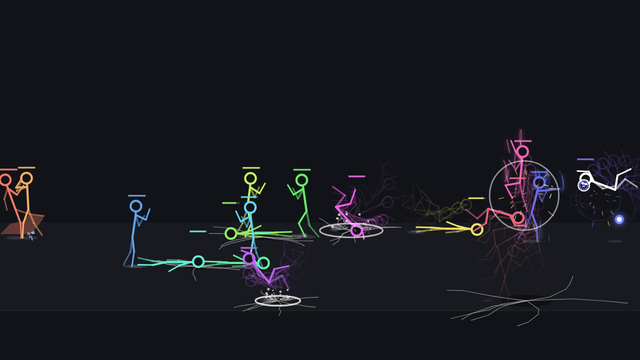
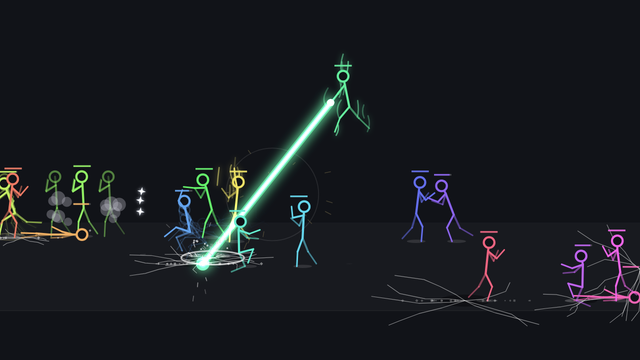
feat: clashes, parries and counters (#490)
* feat: clashes, parries and counters

* fix: re-record the pictures after clashes and counters

The fight a seed gives changed, so demo.gif is recorded again from seed 39,
whose scan still shows all eight styles (and two parries with counters),
and all twenty pictures in docs/images/. The click in click-blast moves to
920, 410, where the fighters now are half a second in.

---------

Changed region(s): [[0.0, 0.1528, 1.0, 0.8861], [0.8125, 0.8861, 0.8438, 0.9167]]

diff --git a/wallpaper/main.js b/wallpaper/main.js
@@ -522,7 +522,7 @@ function slowmoView(ox, oy) {
   view = { z, x: ox * z + cx * (1 - z), y: oy * z + cy * (1 - z) };
   ctx.setTransform(dpr * S * z, 0, 0, dpr * S * z, view.x * dpr, view.y * dpr);
 }
-const stats = { att: {}, hits: {}, whiff: 0, blocked: 0, shielded: 0, subs: 0, ko: 0, rounds: 0, throws: 0, launches: 0, combos: 0, splats: 0, sfx: {} };
+const stats = { att: {}, hits: {}, whiff: 0, blocked: 0, shielded: 0, subs: 0, ko: 0, rounds: 0, throws: 0, launches: 0, combos: 0, splats: 0, clashes: 0, parries: 0, counters: 0, sfx: {} };
 window.__stickmanBrawl = { stats, cfg, MOVES, SUPER, MAGIC, NINJA, shots, fx, sfx, soundSetVolume, soundSetPaused, checkRound, update, pickMove, pickTarget,
   render: () => render(),
   get fighters() { return fighters; } };
@@ -613,6 +613,27 @@ function impact(x, y, big) {
   hitStop(big ? 0.09 : 0.035);
   if (big) addFx({ type: 'focus', x, y, dur: 0.28 });
 }
+// Two strikes meeting in mid-air at Ha and Hb: neither lands, both fighters are knocked back
+// off balance, and the meeting point bursts in white
+function clash(a, b, Ha, Hb) {
+  const M = mid(Ha, Hb);
+  for (const f of [a, b]) {
+    f.hitDone = true; f.chain = null; f.combo = 0; f.clearMove();
+    f.state = 'hit'; f.st = 0; f.dur = CLASH_STAGGER; f.vx = -f.facing * 220; f.dash = 0;
+    if (!f.aloft()) dust(f.x, groundY(f.z) - f.alt, 3, -f.facing, 0.8);
+  }
+  addFx({ type: 'ring', x: M.x, y: M.y, r0: 4, r1: 46, dur: 0.3, w: 3 });
+  spawnSparks(M.x, M.y, '#ffffff', 16, false, 1.4);
+  sfx('hitBig', M.x, 0.8);
+  shake = Math.max(shake, 6); hitStop(0.08);
+  stats.clashes++;
+}
+// Clashes and parries: two strikes that meet knock both fighters back for CLASH_STAGGER s; a
+// block parries PARRY_CHANCE of the martial-arts strikes it meets, which leaves the attacker
+// off balance for PARRY_STAGGER s while the blocker strikes back. Strikes meet when an enemy
+// warned of one answers it with its own (warn, MEET_CHANCE)
+const CLASH_DIST = 16, CLASH_STAGGER = 0.3, PARRY_CHANCE = 0.35, PARRY_STAGGER = 0.4;
+const MEET_CHANCE = 0.25;   // Share of martial-arts strikes an enemy warned of meets with a strike of its own (warn)
 // A cloud of smoke: a few grey balls that swell and fade
 function puff(x, y, size) {
   const balls = [];
@@ -1569,6 +1590,14 @@ class Fighter {
           + (this.move.type === 'clones' ? CLONES_RUSH : 0);
       } else if (!grab && r >= 0.55 && r < 0.63 && cfg.styles.ninjutsu) {
         e.subFrom = this; e.subT = (this.move.wind || 0.3) + (this.move.act || 0.4) + 0.3 + fly;
+      } else if (guard && !this.move.type && r >= 0.63 && r < 0.63 + MEET_CHANCE) {
+        // Meets the strike with one of its own, thrown with the same kind of limb (fist, foot,
+        // elbow or knee) so the two can clash: a strike of a style that is on, quick enough
+        // to be out as soon as the other, reaching across the gap the two lunges close
+        const d = Math.abs(e.x - this.x), kind = this.move.hit[0];
+        const fits = MOVES.filter(n => cfg.styles[n.style] && !n.grab && n.hit[0] === kind && n.wind <= this.move.wind + 0.02 &&
+          d <= n.range[1] + 20);
+        if (fits.length) { e.facing = sgn(this.x - e.x); e.target = this; e.startMove(withStaff(e, pick(fits)), true); }
       }
     }
   }
@@ -2334,6 +2363,8 @@ class Fighter {
     const H = m.staff ? staffTip(this.W, m.hit) : this.W[m.hit], P0 = this.prevHP || H;
     this.prevHP = { x: H.x, y: H.y };
     const r = this.sweepHit(P0, H);
+    const c = this.clashWith(P0, H, r && r[0]);
+    if (c) { clash(this, c[0], H, c[1]); return; }
     if (r) {
       this.hitDone = true;
       const e = r[0];
@@ -2342,6 +2373,43 @@ class Fighter {
       // Only a target still reeling on its feet can be caught by the next strike
       if (e.state === 'hit' && this.combo < COMBO_MAX && COMBO_NEXT[(m.bare || m).id] && !this.aloft() && Math.random() < COMBO_CHANCE) this.chain = e;
     }
+  }
+
+  // An enemy striking back at this one whose fist or foot (or staff tip) is within CLASH_DIST
+  // of this strike's point as it moved from P0 to H, or struck, the enemy it is landing on, as
+  // [enemy, its point]: the two strikes meet
+  clashWith(P0, H, struck) {
+    for (const e of fighters) {
+      const n = e.move;
+      if (!isEnemy(this, e) || e.state !== 'attack' || !n || n.type || n.grab || e.hitDone || !e.W) continue;
+      if (e.st < n.wind || e.st > n.wind + n.act * 0.85 || e.facing !== -this.facing) continue;
+      if (Math.abs(e.z - this.z) > 16 || Math.abs(e.alt - this.alt) >= 35) continue;
+      // Measured against this step's sweep of the point, P0 to H: fists closing at speed pass
+      // each other between two steps
+      const E = n.staff ? staffTip(e.W, n.hit) : e.W[n.hit];
+      // or the enemy this strike is about to land on strikes back with the same kind of limb
+      if (segDist(E.x, E.y, P0, H) < CLASH_DIST || (e === struck && n.hit[0] === this.move.hit[0])) return [e, E];
+    }
+    return null;
+  }
+
+  // A block made in time turns att's strike aside at H: no damage, the attacker thrown off
+  // balance, and this fighter strikes straight back with a martial-arts strike that reaches it
+  parry(att, H) {
+    stats.parries++;
+    addFx({ type: 'ring', x: H.x, y: H.y, r0: 3, r1: 30, dur: 0.2, w: 2.5 });
+    spawnSparks(H.x, H.y, '#ffffff', 10);
+    sfx('block', H.x, 1.4); hitStop(0.06);
+    att.clearMove(); att.chain = null; att.combo = 0;
+    att.state = 'hit'; att.st = 0; att.dur = PARRY_STAGGER; att.vx = -att.facing * 90;
+    this.state = 'idle'; this.st = 0;
+    const dist = Math.abs(att.x - this.x);
+    const fits = MOVES.filter(n => cfg.styles[n.style] && !n.grab && dist >= n.range[0] && dist + 10 <= n.range[1]);
+    if (!fits.length) return;
+    if (dist > 1) this.facing = sgn(att.x - this.x);
+    this.target = att; stats.counters++;
+    // A surprise: the staggered attacker gets no warning to block it
+    this.startMove(withStaff(this, pick(fits)), true);
   }
 
   // Starts the next strike of a combo at this.chain, from those of this strike's chain whose
@@ -2462,6 +2530,8 @@ class Fighter {
       return;
     }
     if (!o.unblockable && this.state === 'block' && this.facing === -dir) {
+      // A martial-arts strike blocked in time is parried, from the attacker itself (not a shot)
+      if (!m.type && att === src && att.state === 'attack' && att.move === m && Math.random() < PARRY_CHANCE) { this.parry(att, H); return; }
       this.hp -= (o.dmg ?? m.dmg) * 0.15;
       this.vx = dir * (o.launch ? Math.abs(o.launch.vx) * 0.5 : (m.push || 30) * 1.2 + 60);
       spawnSparks(H.x, H.y, '#9fd4ff', 8); stats.blocked++; sfx('block', H.x);

diff --git a/README.zh-CN.md b/README.zh-CN.md
@@ -9,7 +9,8 @@
 角色混用拳击、泰拳、跆拳道、柔道和摔跤，加上漫画式必杀技（气功波、飞檐走壁、
 把对手打到撞墙）、魔法（火球、雷击、把对手冻住的冰锥、挡下一击的护盾），以及忍术：
 手里剑、影分身、烟遁，还有留下木头替身挨打的替身术。拳脚打中后可以直接接下一招，
-两到三招连成一套连续技。被击倒的一方会变成布娃娃，场上只剩一方时开始新的回合。
+两到三招连成一套连续技。两招在半空中对撞时双方都会被震开，
+抓准时机的格挡能把攻击拨开并立刻反击。被击倒的一方会变成布娃娃，场上只剩一方时开始新的回合。
 
 ![六个角色大乱斗](demo.gif)
 

diff --git a/README.zh-TW.md b/README.zh-TW.md
@@ -9,7 +9,8 @@
 角色混用拳擊、泰拳、跆拳道、柔道和角力，加上漫畫式必殺技（氣功波、飛簷走壁、
 把對手打到撞牆）、魔法（火球、雷擊、把對手凍住的冰錐、擋下一擊的護盾），以及忍術：
 手裡劍、影分身、煙遁，還有留下木頭替身挨打的替身術。拳腳打中後可以直接接下一招，
-兩到三招連成一套連續技。被擊倒的一方會變成布娃娃，場上只剩一方時開始新的回合。
+兩到三招連成一套連續技。兩招在半空中對撞時雙方都會被震開，
+抓準時機的格擋能把攻擊撥開並立刻反擊。被擊倒的一方會變成布娃娃，場上只剩一方時開始新的回合。
 
 ![六個角色大亂鬥](demo.gif)
 

diff --git a/README.md b/README.md
@@ -11,7 +11,9 @@ specials (energy blasts, wall running, and hits that slam them into walls),
 magic (fireballs, lightning strikes, ice shards that freeze the target, and
 shields that stop a hit) and ninjutsu: shuriken, shadow clones, smoke escapes,
 and a log left behind to take a hit. A punch or kick that lands can run
-straight on into the next, in combos of two or three strikes. A knockout turns
+straight on into the next, in combos of two or three strikes. Two strikes that
+meet in mid-air knock both fighters back, and a block made in time turns a
+strike aside and hits straight back. A knockout turns
 the loser into a ragdoll, and a new round starts when one side is left.
 
 ![Six fighters brawling in free-for-all mode](demo.gif)
